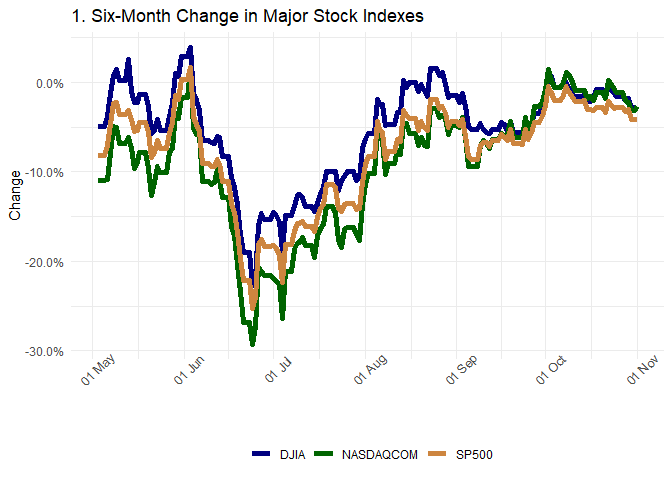
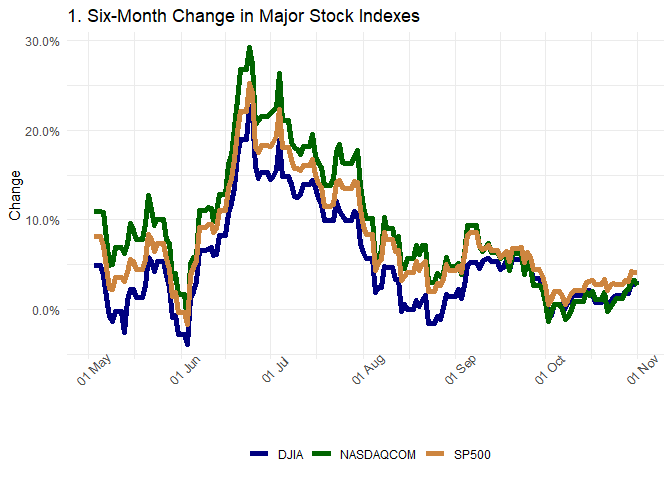
fix calculation of Gas percent of oil

diff --git a/README.md b/README.md
@@ -142,12 +142,12 @@ source("001_Six month indexes.R", echo = TRUE)
     ## 
     ## > dfIndexChange <- dfIndexLast6
     ## 
-    ## > dfIndexChange$DJIA <- ((dfIndexPrev6$DJIA - dfIndexLast6$DJIA)/dfIndexPrev6$DJIA)
+    ## > dfIndexChange$DJIA <- ((dfIndexLast6$DJIA - dfIndexPrev6$DJIA)/dfIndexPrev6$DJIA)
     ## 
-    ## > dfIndexChange$SP500 <- ((dfIndexPrev6$SP500 - dfIndexLast6$SP500)/dfIndexPrev6$SP500)
+    ## > dfIndexChange$SP500 <- ((dfIndexLast6$SP500 - dfIndexPrev6$SP500)/dfIndexPrev6$SP500)
     ## 
-    ## > dfIndexChange$NASDAQCOM <- ((dfIndexPrev6$NASDAQCOM - 
-    ## +     dfIndexLast6$NASDAQCOM)/dfIndexPrev6$NASDAQCOM)
+    ## > dfIndexChange$NASDAQCOM <- ((dfIndexLast6$NASDAQCOM - 
+    ## +     dfIndexPrev6$NASDAQCOM)/dfIndexPrev6$NASDAQCOM)
     ## 
     ## > dfIndexChange_long <- gather(dfIndexChange, Symbol, 
     ## +     Change, -date)
@@ -229,7 +229,7 @@ source("003_Gas gulf coast regular price.R", echo = TRUE)
     ## > p3 <- ggplot(fr_DGASUSGULF, aes(x = date, y = DGASUSGULF))
     ## 
     ## > p3 <- p3 + geom_line(size = 2, color = "darkgreen") + 
-    ## +     theme_minimal() + scale_x_date(breaks = pretty_breaks(4)) + 
+    ## +     theme_minimal() + scale_x_date(breaks = pretty_breaks(6)) + 
     ## +     xlab("") + scale_y_c .... [TRUNCATED]
 
 ### 4\. Gasoline % of Oil Price
@@ -239,31 +239,14 @@ source("004_Gas percent of oil.R", echo = TRUE)
 ```
 
     ## 
-    ## > user_api_key <- read.csv("../../fred_api_key.csv", 
-    ## +     stringsAsFactors = TRUE, as.is = TRUE)
+    ## > fr_gaspercentoil <- fr_DGASUSGULF
     ## 
-    ## > fredr_set_key(user_api_key$fredAPIkey)
+    ## > fr_gaspercentoil$DGASUSGULF <- (fr_DGASUSGULF$DGASUSGULF/fr_DCOILWTICO$DCOILWTICO) * 
+    ## +     100
     ## 
-    ## > today <- as_date(now())
+    ## > names(fr_gaspercentoil)[2] <- "Percent"
     ## 
-    ## > yesterday <- as_date(now() - days(1))
-    ## 
-    ## > end_date <- yesterday
-    ## 
-    ## > if (wday(yesterday) > 6) {
-    ## +     end_date <- as_date(now() - days(wday(yesterday) - 6))
-    ## + }
-    ## 
-    ## > start_date <- as_date(yesterday - days(45))
-    ## 
-    ## > fr_DCOILWTICO <- fredr(series_id = "DCOILWTICO", start_date, 
-    ## +     end_date)
-    ## 
-    ## > fr_DCOILWTICO$series_id <- NULL
-    ## 
-    ## > names(fr_DCOILWTICO)[2] <- "DCOILWTICO"
-    ## 
-    ## > p4 <- ggplot(fr_DCOILWTICO, aes(x = date, y = DCOILWTICO))
+    ## > p4 <- ggplot(fr_gaspercentoil, aes(x = date, y = Percent))
     ## 
     ## > p4 <- p4 + geom_line(size = 2, color = "darkgreen") + 
     ## +     theme_minimal() + scale_x_date(breaks = pretty_breaks(6)) + 
